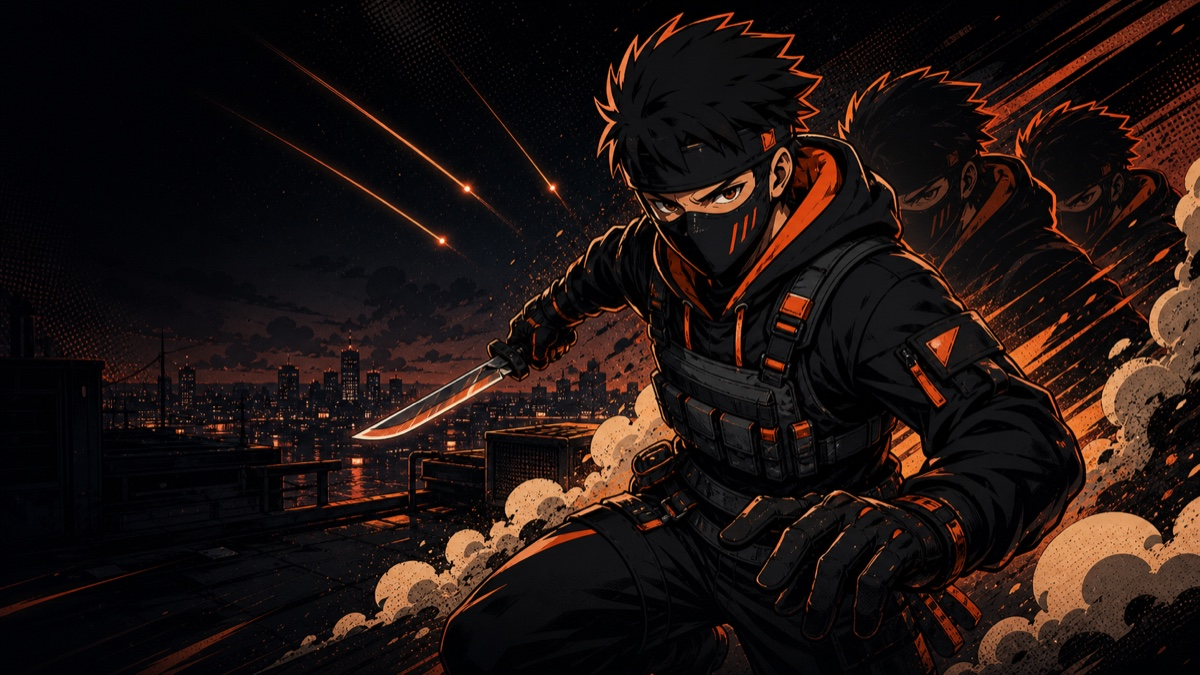
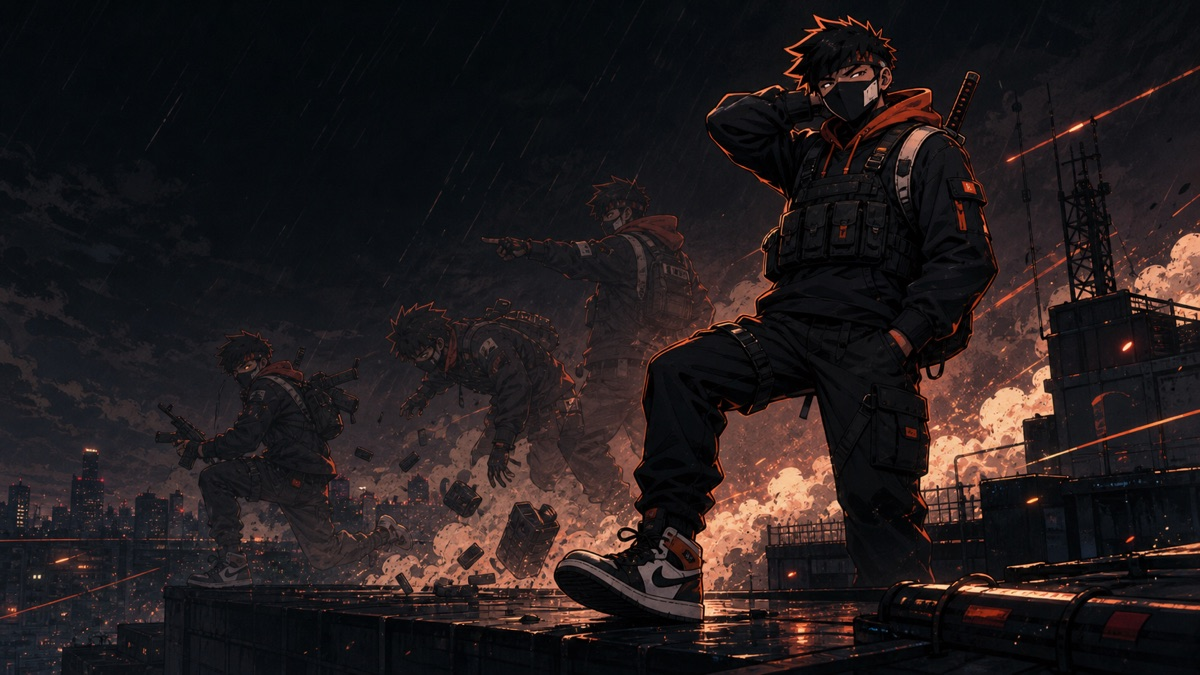
Add funny low-tier and support card art

diff --git a/squad-recall.html b/squad-recall.html
@@ -524,16 +524,11 @@
         map: "Alcatraz / Resurgence",
         finish: "#1",
         kills: 21,
-        redeploys: 2,
+        redeploys: 3,
         revives: 3,
         damage: "7.9K",
         moment: "Final Circle Squad Wipe",
       };
-
-      const recallText = `LAST DROP: RECALL
-${match.kills} kills. ${match.finish} finish. ${match.moment}.
-
-Need one more. Run it back:`;
 
       const cardStyles = [
         {
@@ -549,7 +544,7 @@ Need one more. Run it back:`;
           mid: "#43130b",
           paper: "#f5f1e8",
           title: "Two-Piece",
-          subtitle: "Quick clean split",
+          subtitle: "Two kills and a reset",
         },
         {
           metric: "kills",
@@ -564,7 +559,7 @@ Need one more. Run it back:`;
           mid: "#22201d",
           paper: "#f6f2ea",
           title: "Triple Tap",
-          subtitle: "Three in the feed",
+          subtitle: "Left with dignity",
         },
         {
           metric: "kills",
@@ -579,7 +574,7 @@ Need one more. Run it back:`;
           mid: "#4a1019",
           paper: "#f8eee8",
           title: "Four Down",
-          subtitle: "Full squad cracked",
+          subtitle: "Held together somehow",
         },
         {
           metric: "kills",
@@ -765,8 +760,6 @@ Need one more. Run it back:`;
       ];
 
       const shareUrl = "https://jack-more.github.io/experience-lab/squad-recall.html";
-      const smsBody = `${recallText}\n${shareUrl}`;
-      const smsHref = `sms:&body=${encodeURIComponent(smsBody)}`;
       const recallCard = document.getElementById("recallCard");
       const shareCardCanvas = document.getElementById("shareCardCanvas");
       const shareCardContext = shareCardCanvas.getContext("2d");
@@ -817,13 +810,51 @@ Need one more. Run it back:`;
           label: "Twenty-Bomb Mythic",
         },
         redeploy: {
-          src: "assets/last-drop-art-redeploy.jpg",
-          label: "Cash Flex Card",
+          src: "assets/last-drop-redeploy-01.jpg",
+          label: "Coupon Buyback",
+        },
+        redeploy01: {
+          src: "assets/last-drop-redeploy-01.jpg",
+          label: "Coupon Buyback",
+        },
+        redeploy02: {
+          src: "assets/last-drop-redeploy-02.jpg",
+          label: "Cash Sprint",
+        },
+        redeploy03: {
+          src: "assets/last-drop-redeploy-03.jpg",
+          label: "Full Send Fund",
         },
         revive: {
-          src: "assets/last-drop-art-revive.jpg",
-          label: "Save The Run",
+          src: "assets/last-drop-revive-01.jpg",
+          label: "Panic Pickup",
         },
+        revive01: {
+          src: "assets/last-drop-revive-01.jpg",
+          label: "Panic Pickup",
+        },
+        revive03: {
+          src: "assets/last-drop-revive-03.jpg",
+          label: "Triple Save",
+        },
+      };
+
+      const styleStats = {
+        K02: { finish: "#12", kills: 2, redeploys: 0, revives: 0, damage: "820", moment: "Two kills and a hard reset" },
+        K03: { finish: "#9", kills: 3, redeploys: 0, revives: 0, damage: "1.1K", moment: "Three kills, left with dignity" },
+        K04: { finish: "#7", kills: 4, redeploys: 1, revives: 0, damage: "1.6K", moment: "Held the run together somehow" },
+        K05: { finish: "#5", kills: 5, redeploys: 1, revives: 1, damage: "2.1K", moment: "Five alive, squad breathing" },
+        K08: { finish: "#4", kills: 8, redeploys: 1, revives: 1, damage: "3.4K", moment: "Hot run marker" },
+        K10: { finish: "#3", kills: 10, redeploys: 1, revives: 1, damage: "4.2K", moment: "Lobby noticed" },
+        K12: { finish: "#2", kills: 12, redeploys: 1, revives: 2, damage: "5.1K", moment: "Damage on board" },
+        K15: { finish: "#1", kills: 15, redeploys: 2, revives: 2, damage: "6.3K", moment: "Lobby in orbit" },
+        K18: { finish: "#1", kills: 18, redeploys: 2, revives: 3, damage: "7.1K", moment: "One more fight from the bomb" },
+        K20: { finish: "#1", kills: 21, redeploys: 2, revives: 3, damage: "7.9K", moment: "Final circle squad wipe" },
+        R01: { finish: "#10", kills: 2, redeploys: 1, revives: 0, damage: "940", moment: "Bought one back and called it economy" },
+        R02: { finish: "#6", kills: 5, redeploys: 2, revives: 1, damage: "2.4K", moment: "Cash got the squad moving" },
+        R03: { finish: "#3", kills: 7, redeploys: 3, revives: 1, damage: "3.2K", moment: "Last cash, squad sent" },
+        V01: { finish: "#8", kills: 3, redeploys: 0, revives: 1, damage: "1.4K", moment: "Saved the run once" },
+        V03: { finish: "#2", kills: 6, redeploys: 1, revives: 3, damage: "3.5K", moment: "Everyone got a second life" },
       };
 
       function isStyleUnlocked(style) {
@@ -1003,16 +1034,54 @@ Need one more. Run it back:`;
         }
       }
 
-      function getPrimaryStat(style) {
-        if (style.metric === "redeploys") {
-          return { value: `+${match.redeploys}`, label: "redeploys" };
+      function getStyleStats(style) {
+        return {
+          ...match,
+          ...(styleStats[style.serial] || {}),
+        };
+      }
+
+      function getActiveStyle() {
+        return cardStyles[activeStyle];
+      }
+
+      function getMetricLabel(metric, value) {
+        if (metric === "redeploys") {
+          return value === 1 ? "redeploy" : "redeploys";
         }
 
-        if (style.metric === "revives") {
-          return { value: `+${match.revives}`, label: "revives" };
+        if (metric === "revives") {
+          return value === 1 ? "revive" : "revives";
         }
 
-        return { value: `+${match.kills}`, label: "kills" };
+        return "kills";
+      }
+
+      function getPrimaryStat(style, stats = getStyleStats(style)) {
+        const value = stats[style.metric];
+        return {
+          value: `+${value}`,
+          label: getMetricLabel(style.metric, value),
+          rawValue: value,
+        };
+      }
+
+      function getRecallText(style = getActiveStyle(), stats = getStyleStats(style)) {
+        const primary = getPrimaryStat(style, stats);
+        return `LAST DROP: RECALL
+${primary.rawValue} ${primary.label}. ${stats.finish} finish. ${stats.moment}.
+
+Need one more. Run it back:`;
+      }
+
+      function getSmsHref(style = getActiveStyle(), stats = getStyleStats(style)) {
+        return `sms:&body=${encodeURIComponent(`${getRecallText(style, stats)}\n${shareUrl}`)}`;
+      }
+
+      function getCardFilename(style = getActiveStyle(), stats = getStyleStats(style)) {
+        const primary = getPrimaryStat(style, stats);
+        const metric = primary.label.replace(/\s+/g, "-");
+        return `last-drop-recall-${primary.rawValue}-${metric}.png`;
       }
 
       function getStylePlate(style) {
@@ -1021,7 +1090,17 @@ Need one more. Run it back:`;
           return artPlates[key] || artPlates.kill20;
         }
 
-        return artPlates[style.family];
+        if (style.metric === "redeploys") {
+          const key = `redeploy${String(style.minValue).padStart(2, "0")}`;
+          return artPlates[key] || artPlates.redeploy;
+        }
+
+        if (style.metric === "revives") {
+          const key = `revive${String(style.minValue).padStart(2, "0")}`;
+          return artPlates[key] || artPlates.revive;
+        }
+
+        return artPlates[style.family] || artPlates.kill20;
       }
 
       function getStyleRarity(style) {
@@ -1581,7 +1660,7 @@ Need one more. Run it back:`;
         strokeRoundedRect(ctx, x, y, width, height, 30, alpha(style.accent2, 0.5), 2);
       }
 
-      function drawCardBase(ctx, style, width, height) {
+      function drawCardBase(ctx, style, stats, width, height) {
         const base = ctx.createLinearGradient(0, 0, width, height);
         base.addColorStop(0, "#040404");
         base.addColorStop(0.45, style.deep);
@@ -1609,13 +1688,13 @@ Need one more. Run it back:`;
         }
         ctx.restore();
 
-        drawGrain(ctx, width, height, activeStyle * 311 + match.kills * 17, 0.085);
+        drawGrain(ctx, width, height, activeStyle * 311 + stats[style.metric] * 17, 0.085);
 
         strokeRoundedRect(ctx, 26, 26, width - 52, height - 52, 34, alpha(style.accent2, 0.48), 3);
         strokeRoundedRect(ctx, 42, 42, width - 84, height - 84, 25, "rgba(255, 255, 255, 0.18)", 1.5);
       }
 
-      function drawTopMeta(ctx, style, width) {
+      function drawTopMeta(ctx, style, stats, width) {
         ctx.fillStyle = "rgba(255, 255, 255, 0.82)";
         ctx.font = "900 25px 'Space Mono', monospace";
         ctx.fillText("LAST DROP: RECALL", 64, 78);
@@ -1625,14 +1704,14 @@ Need one more. Run it back:`;
         ctx.fillStyle = "rgba(255, 255, 255, 0.58)";
         ctx.textAlign = "right";
         ctx.font = "700 17px 'Space Mono', monospace";
-        ctx.fillText(`${match.map.toUpperCase()} // ${style.serial}`, width - 64, 84);
+        ctx.fillText(`${stats.map.toUpperCase()} // ${style.serial}`, width - 64, 84);
         ctx.textAlign = "left";
         drawBarcode(ctx, width - 255, 101, 190, 34, "rgba(255, 255, 255, 0.42)");
       }
 
-      function drawPlayerBlock(ctx, style) {
+      function drawPlayerBlock(ctx, style, stats) {
         ctx.fillStyle = "#fffaf0";
-        drawFittedText(ctx, match.player.toUpperCase(), 64, 172, 410, 58, 30, "Inter, Arial, sans-serif", 900);
+        drawFittedText(ctx, stats.player.toUpperCase(), 64, 172, 410, 58, 30, "Inter, Arial, sans-serif", 900);
 
         fillRoundedRect(ctx, 64, 194, 172, 38, 19, alpha(style.accent, 0.94));
         ctx.fillStyle = "#070707";
@@ -1640,11 +1719,11 @@ Need one more. Run it back:`;
         ctx.fillText(style.requirement.toUpperCase(), 84, 220);
 
         ctx.fillStyle = "rgba(255, 255, 255, 0.7)";
-        drawFittedText(ctx, match.moment.toUpperCase(), 64, 262, 390, 17, 12, "'Space Mono', monospace", 700);
+        drawFittedText(ctx, stats.moment.toUpperCase(), 64, 262, 390, 17, 12, "'Space Mono', monospace", 700);
       }
 
-      function drawPrimaryStat(ctx, style) {
-        const primary = getPrimaryStat(style);
+      function drawPrimaryStat(ctx, style, stats) {
+        const primary = getPrimaryStat(style, stats);
         ctx.fillStyle = alpha(style.accent2, 0.92);
         ctx.font = "900 184px Inter, Arial, sans-serif";
         ctx.fillText(primary.value, 54, 458);
@@ -1658,14 +1737,16 @@ Need one more. Run it back:`;
         ctx.fillText(style.subtitle.toUpperCase(), 68, 648);
       }
 
-      function drawStatTicker(ctx, style, width, height) {
-        const stats = [
-          ["FINISH", match.finish],
-          ["DAMAGE", match.damage],
-          ["KILLS", match.kills],
-          ["REDEPLOYS", match.redeploys],
-          ["REVIVES", match.revives],
+      function drawStatTicker(ctx, style, stats, width, height) {
+        const statRows = [
+          ["FINISH", stats.finish],
+          ["DAMAGE", stats.damage],
+          ["KILLS", stats.kills],
+          ["REDEPLOYS", stats.redeploys],
+          ["REVIVES", stats.revives],
         ];
+        const activeLabel =
+          style.metric === "redeploys" ? "REDEPLOYS" : style.metric === "revives" ? "REVIVES" : "KILLS";
         const x = 58;
         const y = height - 142;
         const tickerWidth = width - 116;
@@ -1674,7 +1755,7 @@ Need one more. Run it back:`;
         fillRoundedRect(ctx, x, y, tickerWidth, 82, 16, "rgba(0, 0, 0, 0.48)");
         strokeRoundedRect(ctx, x, y, tickerWidth, 82, 16, "rgba(255, 255, 255, 0.16)", 1.5);
 
-        stats.forEach(([label, value], index) => {
+        statRows.forEach(([label, value], index) => {
           const cellX = x + index * cellWidth;
           if (index > 0) {
             ctx.fillStyle = "rgba(255, 255, 255, 0.12)";
@@ -1684,7 +1765,7 @@ Need one more. Run it back:`;
           ctx.fillStyle = "rgba(255, 255, 255, 0.56)";
           ctx.font = "700 16px 'Space Mono', monospace";
           ctx.fillText(label, cellX + 22, y + 31);
-          ctx.fillStyle = label === "KILLS" ? style.accent2 : "#fffaf0";
+          ctx.fillStyle = label === activeLabel ? style.accent2 : "#fffaf0";
           ctx.font = "900 34px 'Teko', sans-serif";
           ctx.fillText(String(value).toUpperCase(), cellX + 22, y + 66);
         });
@@ -1720,13 +1801,14 @@ Need one more. Run it back:`;
 
       function renderShareCard() {
         const style = cardStyles[activeStyle];
+        const stats = getStyleStats(style);
         const ctx = shareCardContext;
         const width = shareCardCanvas.width;
         const height = shareCardCanvas.height;
         const unlocked = isStyleUnlocked(style);
 
         ctx.clearRect(0, 0, width, height);
-        drawCardBase(ctx, style, width, height);
+        drawCardBase(ctx, style, stats, width, height);
 
         const artX = 502;
         const artY = 132;
@@ -1735,10 +1817,10 @@ Need one more. Run it back:`;
 
         drawGeneratedArt(ctx, style, artX, artY, artWidth, artHeight);
 
-        drawTopMeta(ctx, style, width);
-        drawPlayerBlock(ctx, style);
-        drawPrimaryStat(ctx, style);
-        drawStatTicker(ctx, style, width, height);
+        drawTopMeta(ctx, style, stats, width);
+        drawPlayerBlock(ctx, style, stats);
+        drawPrimaryStat(ctx, style, stats);
+        drawStatTicker(ctx, style, stats, width, height);
         drawFooter(ctx, style, width, height);
 
         if (!unlocked) {
@@ -1749,13 +1831,14 @@ Need one more. Run it back:`;
       function setStyle(index) {
         activeStyle = (index + cardStyles.length) % cardStyles.length;
         const style = cardStyles[activeStyle];
+        const stats = getStyleStats(style);
         styleSelect.value = String(activeStyle);
         recallCard.style.setProperty("--accent", style.accent);
         recallCard.style.setProperty("--paper-tint", style.paper);
+        smsLink.href = getSmsHref(style, stats);
         renderShareCard();
       }
 
-      smsLink.href = smsHref;
       setStyle(activeStyle);
       if (document.fonts) {
         document.fonts.ready.then(renderShareCard);
@@ -1778,6 +1861,8 @@ Need one more. Run it back:`;
       }
 
       async function copyCardImage() {
+        const style = getActiveStyle();
+        const stats = getStyleStats(style);
         const blob = await canvasToBlob(shareCardCanvas);
 
         if (navigator.clipboard && window.ClipboardItem && window.isSecureContext) {
@@ -1790,7 +1875,7 @@ Need one more. Run it back:`;
         const downloadUrl = URL.createObjectURL(blob);
         const link = document.createElement("a");
         link.href = downloadUrl;
-        link.download = `last-drop-recall-${match.kills}-kills.png`;
+        link.download = getCardFilename(style, stats);
         document.body.append(link);
         link.click();
         link.remove();
@@ -1799,13 +1884,15 @@ Need one more. Run it back:`;
       }
 
       async function inviteSquadWithCard() {
+        const style = getActiveStyle();
+        const stats = getStyleStats(style);
         const blob = await canvasToBlob(shareCardCanvas);
-        const file = new File([blob], `last-drop-recall-${match.kills}-kills.png`, {
+        const file = new File([blob], getCardFilename(style, stats), {
           type: "image/png",
         });
         const shareData = {
           title: "Last Drop: Recall",
-          text: recallText,
+          text: getRecallText(style, stats),
           url: shareUrl,
         };
 
@@ -1822,7 +1909,7 @@ Need one more. Run it back:`;
           return "link";
         }
 
-        window.location.href = smsHref;
+        window.location.href = getSmsHref(style, stats);
         return "sms";
       }
 
@@ -1855,7 +1942,7 @@ Need one more. Run it back:`;
             return;
           }
 
-          window.location.href = smsHref;
+          window.location.href = getSmsHref();
           smsLink.textContent = "SMS Opened";
         }
 